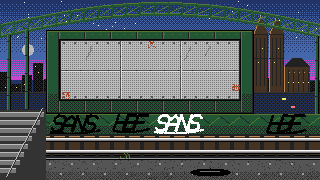
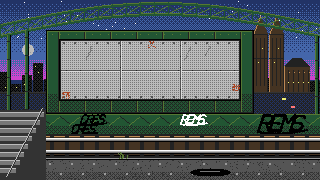
feat(grafik): neue Namen an den Wänden und die Crew NOX
Der Tester hat die Namen ausgetauscht: statt TREN, SANS und HBF stehen
jetzt RUBIX, TEAR, REMS, YARE und CRES an den Wänden, in Handstyles
auch mal mit "ONE" oder "1" hinten dran. Dazu das frei erfundene
Crew-Kürzel NOX, das klein neben manchen Werken steht (crewTag()).

tags() rechnet die Größe jetzt aus Zeilenhöhe UND Spaltenbreite, damit
die längeren Namen nicht aus der Wand laufen, und wiederholt nie
denselben Namen direkt hintereinander.

KRUX bleibt, das ist der Rivale aus der Geschichte.

Claude-Session: https://claude.ai/code/session_01NeHStqd8MhcAouiiJD2DsU

diff --git a/scripts/lib/rooms-art.ts b/scripts/lib/rooms-art.ts
@@ -11,6 +11,7 @@ import {
   box,
   bricks,
   cable,
+  crewTag,
   crack,
   disc,
   dither,
@@ -100,7 +101,8 @@ const hinterhof: Scene = (R) => {
   pipe(a, 96, 22, 128, C.grey, C.light_grey, C.dark_grey);
   cable(a, 0, 30, 96, 26, 6, C.black);
   // Throw-up auf der Backsteinwand, dazu ein paar Handstyles.
-  graffiti(a, 22, 64, 22, "SANS", "throwup", { fill: C.light_red, fill2: C.red, outline: C.black }, R);
+  graffiti(a, 22, 64, 22, "REMS", "throwup", { fill: C.light_red, fill2: C.red, outline: C.black }, R);
+  crewTag(a, 78, 88, 11, C.black, R);
   tags(a, 22, 88, 74, 20, [C.black, C.white], 2, R);
   tags(a, 252, 60, 62, 30, [C.black, C.purple], 2, R);
 
@@ -130,7 +132,7 @@ const hinterhof: Scene = (R) => {
   rect(a, 126, 74, 60, 46, C.light_grey);
   dither(a, 126, 74, 60, 46, C.light_grey, C.grey, 0.35);
   // Fremdes Throw-up auf dem Rolltor – halb übergerollt, deshalb blass.
-  graffiti(a, 131, 82, 22, "HBF", "throwup", { fill: C.white, outline: C.blue, fill2: C.cyan }, R);
+  graffiti(a, 130, 84, 18, "TEAR", "throwup", { fill: C.white, outline: C.blue, fill2: C.cyan }, R);
   grain(a, 128, 78, 56, 38, C.light_grey, 0.28, R);
   rect(a, 148, 142, 14, 4, C.dark_grey);
   disc(a, 155, 144, 2, C.black);
@@ -451,7 +453,8 @@ const unterfuehrung: Scene = (R) => {
     },
     R,
   );
-  tags(a, 92, 120, 116, 24, [C.black, C.white], 3, R);
+  crewTag(a, 176, 88, 13, C.white, R);
+  tags(a, 92, 120, 116, 24, [C.black, C.white], 2, R);
   rect(a, 0, 40, 16, 100, C.light_grey);
   dither(a, 0, 40, 16, 100, C.light_grey, C.grey, 0.3);
   frame(a, 0, 40, 16, 100, C.dark_grey);
@@ -557,15 +560,15 @@ const jugendzentrum: Scene = (R) => {
   frame(a, 198, 50, 118, 92, C.grey_mid);
 
   // Fremde Werke auf der linken Fläche: verblasst zuerst, frisch darüber
-  graffiti(a, 40, 86, 24, "HBF", "throwup", { fill: C.light_grey, fill2: C.grey, outline: C.dark_grey }, R);
+  graffiti(a, 40, 86, 24, "CRES", "throwup", { fill: C.light_grey, fill2: C.grey, outline: C.dark_grey }, R);
   grain(a, 34, 80, 70, 36, C.grey_soft, 0.34, R);
   grain(a, 34, 80, 70, 36, C.grey_mid, 0.14, R);
   graffiti(
     a,
     30,
-    56,
-    34,
-    "TREN",
+    58,
+    28,
+    "RUBIX",
     "wildstyle",
     {
       fill: C.yellow,
@@ -580,7 +583,8 @@ const jugendzentrum: Scene = (R) => {
   tags(a, 30, 116, 104, 22, [C.black, C.white, C.purple], 2, R);
 
   // Rechts oben ein Throw-up, darunter bleibt die Wand frei
-  graffiti(a, 244, 54, 20, "SANS", "throwup", { fill: C.cyan, fill2: C.light_blue, outline: C.black }, R);
+  graffiti(a, 244, 54, 20, "YARE", "throwup", { fill: C.cyan, fill2: C.light_blue, outline: C.black }, R);
+  crewTag(a, 288, 74, 12, C.black, R);
   // Reste älterer Schichten am unteren Rand – die Fläche darüber bleibt frei.
   for (const [rx, rc] of [
     [204, C.purple],

diff --git a/scripts/lib/art.ts b/scripts/lib/art.ts
@@ -351,8 +351,13 @@ export function graffiti(
   return width;
 }
 
-// Tags an einer Wand: kleine Handstyles, dazwischen ein paar Kritzel.
-const TAG_WORDS = ["TREN", "SANS", "HBF"];
+// Die Namen, die in dieser Stadt an den Wänden stehen. Kommen vom Tester.
+// „ONE" und „1" hängt man in Handstyles gern hinten dran.
+export const CREW = "NOX";
+const TAG_WORDS = ["RUBIX", "TEAR", "REMS", "YARE", "CRES", "TEAR1", "REMS1", "YARE1", "CRES1", CREW];
+
+// Tags an einer Wand: kleine Handstyles, in Zeilen und Spalten verteilt,
+// damit sie sich nicht zu einem Knäuel überlagern.
 export function tags(
   a: Art,
   x: number,
@@ -363,22 +368,33 @@ export function tags(
   count: number,
   R: () => number,
 ): void {
-  // In Zeilen verteilt, damit sich die Tags nicht zu einem Knäuel überlagern.
-  const rows = Math.max(1, Math.ceil(count / Math.max(1, Math.floor(w / 46))));
+  const cols = Math.max(1, Math.min(count, Math.floor(w / 58)));
+  const rows = Math.ceil(count / cols);
   const rowH = h / rows;
+  const slot = w / cols;
+  let last = "";
   for (let k = 0; k < count; k++) {
     const c = colors[Math.floor(R() * colors.length)]!;
-    const text = TAG_WORDS[Math.floor(R() * TAG_WORDS.length)]!;
-    const size = Math.min(12 + Math.floor(R() * 6), Math.max(10, rowH - 3));
-    const used = text.length * 4.3 * (size / 6);
-    const row = k % rows;
-    const col = Math.floor(k / rows);
-    const perRow = Math.ceil(count / rows);
-    const slot = w / perRow;
+    // Kein Name zweimal an derselben Wand – das sieht sonst nach Copy-Paste aus.
+    let text = TAG_WORDS[Math.floor(R() * TAG_WORDS.length)]!;
+    while (text === last) text = TAG_WORDS[Math.floor(R() * TAG_WORDS.length)]!;
+    last = text;
+    // Die Größe muss in die Zeile und in die Spalte passen, sonst läuft der Name aus der Wand.
+    const byRow = Math.min(17, Math.floor(rowH) - 3);
+    const byCol = Math.floor((slot * 6) / (text.length * 4.3));
+    const size = Math.max(8, Math.min(byRow, byCol));
+    const used = (text.length * 4.3 * size) / 6;
+    const col = k % cols;
+    const row = Math.floor(k / cols);
     const tx = x + col * slot + R() * Math.max(1, slot - used);
-    const ty = y + row * rowH + R() * Math.max(1, rowH - size - 4);
+    const ty = y + row * rowH + R() * Math.max(1, rowH - size - 3);
     graffiti(a, tx, ty, size, text, "tag", { fill: c, outline: c }, R);
   }
+}
+
+// Das Crew-Kürzel neben einem Werk – klein, wie hingekritzelt.
+export function crewTag(a: Art, x: number, y: number, size: number, color: number, R: () => number): void {
+  graffiti(a, x, y, size, CREW, "tag", { fill: color, outline: color }, R);
 }
 
 export function toRgba(art: Art): Uint8Array {

diff --git a/docs/SPEC-GRAFIK.md b/docs/SPEC-GRAFIK.md
@@ -18,7 +18,7 @@ Bezug: `backlog.md` (F1.5, E10), `MEILENSTEINE.md` (Schritt G zwischen M4a und M
 | Palette | 32 Farben: die 16 C64-Farben plus 16 Zwischentöne für Haut, Mauerwerk, Metall und Nacht. Die ersten 16 bleiben unverändert, gespeicherte Werke sehen genauso aus wie vorher. | 16 Farben reichten für Gesichter und Schattierungen nicht (Tester). Der Retro-Look bleibt. |
 | Größe | 320×180, genau die Bühne | Keine Skalierung, keine unscharfen Kanten. |
 | Motive | Jede Szene richtet sich nach den Hotspot-Rechtecken der Room-Datei | Wer etwas sieht, kann es auch antippen – und umgekehrt. |
-| Fremde Werke | Die Werke an den Wänden entstehen aus denselben Buchstaben-Skeletten wie die eigenen. Es sind immer dieselben drei Namen: **TREN, SANS, HBF** – klein als Handstyle, groß als Throw-up oder Wildstyle. Dazu KRUX als Wildstyle in der Unterführung. | Der Tester will wiedererkennbare Namen statt erfundener Kürzel: drei Namen, die überall auftauchen, machen aus den Räumen eine Stadt. |
+| Fremde Werke | Die Werke an den Wänden entstehen aus denselben Buchstaben-Skeletten wie die eigenen. Es sind immer dieselben Namen (Abschnitt 10): klein als Handstyle, groß als Throw-up oder Wildstyle. Dazu KRUX als Wildstyle in der Unterführung. | Der Tester will wiedererkennbare Namen statt erfundener Kürzel: wenige Namen, die überall auftauchen, machen aus den Räumen eine Stadt. |
 | Freie Flächen | Wo man selbst malen darf (Rolltore, linke Wand, Hall, Brückenblech, Waggon), ist die Fläche leer und ruhig. | Das eigene Werk soll wirken. |
 | Hotspots finden | Neuer HUD-Knopf „Blick": zeigt 2,5 Sekunden lang die Umrisse mit Namen. | Gegen Pixel-Sucherei (Backlog F1.5), ohne die Bilder mit Markierungen zu verschandeln. |
 
@@ -83,10 +83,10 @@ Der Tester wollte echte Namen an allen Wänden, den Kölner Laden und eine Köln
 
 | Thema | Vorher | Jetzt |
 |-------|--------|-------|
-| Namen an den Wänden | SEB, ZINK, MOA, ARO, ein verblasstes TOY | Überall nur noch TREN, SANS und HBF. Klein als Handstyle, groß als Throw-up oder Wildstyle. Kein TOY mehr als Graffiti. |
+| Namen an den Wänden | SEB, ZINK, MOA, ARO, ein verblasstes TOY | Nur noch eine kleine, feste Liste (siehe Abschnitt 10). Klein als Handstyle, groß als Throw-up oder Wildstyle. Kein TOY mehr als Graffiti. |
 | Graffiti-Zeichner | `piece()` – eckige Kästen mit Schriftzug | Neuer `graffiti()` in `scripts/lib/art.ts` mit drei Formen: `tag` (dünne Cap, Schräge, Schwung), `throwup` (runde Bubble-Formen, Verlauf, Highlight), `wildstyle` (Arrows, Widerhaken, Connections, Second Outline, 3D-Schatten, Background) |
 | Unterführung | KRUX als Kasten-Piece | KRUX als Wildstyle mit Arrows, weißer Second Outline und 3D |
-| Hall of Fame | Vier gleich aussehende Pieces | Drei Styles nebeneinander: TREN als Wildstyle, SANS und HBF als Throw-up, dazu ein altes, verblasstes Werk darunter |
+| Hall of Fame | Vier gleich aussehende Pieces | Drei Styles nebeneinander: ein Wildstyle, zwei Throw-ups, dazu ein altes, verblasstes Werk darunter |
 | Laden | „FARBEN" | Heißt **DEDICATED**, nach dem Laden in Köln. Ladenfront wie im echten Leben: Schaufenster und Eingangstür nebeneinander, die Tür in Menschenhöhe. Keine Sprühdosen mehr im Schaufenster, stattdessen Shirts auf der Stange, Schuhkartons auf einem Brett und ein Deck. Sockel voller Aufkleber. Innen ein Schild an der Wand und eine zugeklebte Theke. |
 | Raumname | Farbenladen | **Graffitistore** (`content/rooms/farbenladen.yaml`, `content/npcs/laden.yaml`, `content/facts.yaml`, `content/rooms/strasse.yaml`) |
 | Eisenbahnbrücke | Graue Wand vor Skyline | Grüner Stahlbogen mit zwei Gurtungen und Diagonalen wie an den Kölner Rheinbrücken, Hänger zum Fahrbahnträger, dahinter der Dom mit zwei Türmen, unten die Straße, vorn Gleis und Laufsteg |
@@ -116,3 +116,31 @@ im Bürgerzentrum und passte nicht zum Ton („Hier wird gemalt, nicht geredet")
 Jugendhilfeträger gehört nicht ungefragt in eine Welt, in der es später um Heat und Erwischtwerden geht.
 Über dem Tor hängt jetzt eine Hoflaterne. Gebäude und Orte dürfen echten Kölner Vorbildern nachempfunden
 sein, Namen von Personen, Vereinen und Projekten nicht.
+
+## 10. Die Namen an den Wänden
+
+Der Tester hat die Liste vorgegeben. Sie steht in `scripts/lib/art.ts` und gilt für alle Räume:
+
+**RUBIX · TEAR · REMS · YARE · CRES**
+
+In Handstyles hängt manchmal ein „ONE" oder eine „1" hinten dran (TEAR1, YARE1, CRES1) – so wie im
+echten Leben. `tags()` zieht die Namen zufällig, aber deterministisch aus dieser Liste und wiederholt
+nie denselben Namen direkt hintereinander.
+
+**Crew: NOX.** Das Kürzel steht klein neben manchen Werken, so wie Writer ihre Crew neben den Namen
+setzen. Es ist frei erfunden und hat mit keiner echten Crew zu tun. `crewTag()` zeichnet es; in
+`tags()` taucht es außerdem gelegentlich als eigener Handstyle auf.
+
+**KRUX** bleibt davon unberührt: Das ist der Rivale aus der Geschichte, kein Wandname.
+
+Wo die Namen stehen:
+
+| Raum | Groß | Klein |
+|------|------|-------|
+| Hinterhof | REMS (Throw-up) an der Wand, TEAR (Throw-up) auf dem Garagentor | Handstyles, NOX |
+| Straße | – (die Rolltore bleiben frei) | Handstyles über dem Rolltor und an der Hauswand |
+| Graffitistore | – | – (innen bleibt sauber) |
+| Unterführung | KRUX (Wildstyle) | Handstyles, NOX unter dem Piece |
+| Jugendzentrum | RUBIX (Wildstyle), YARE (Throw-up), CRES (Throw-up, verblasst) | Handstyles, NOX |
+| Eisenbahnbrücke | – (das Blech bleibt frei) | Handstyles auf dem Fahrbahnträger |
+| Abstellgleis | – (die Waggonseite bleibt frei) | zwei Handstyles neben der Tür |
